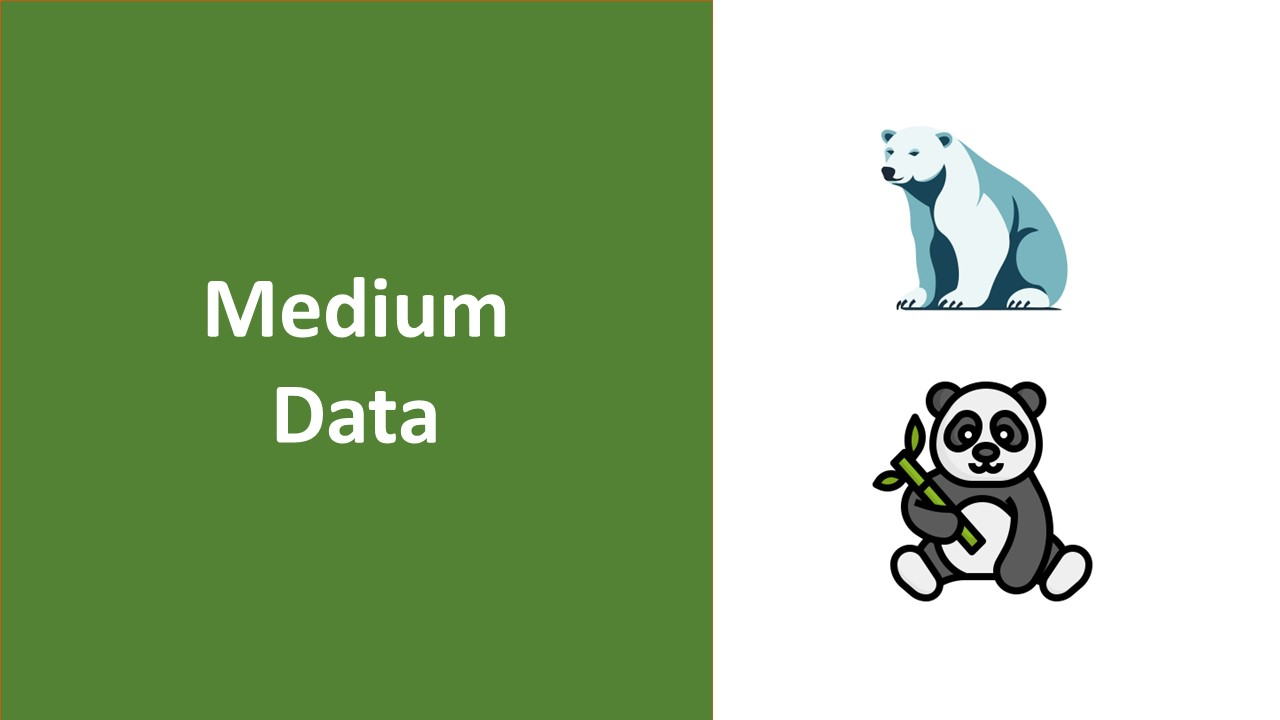
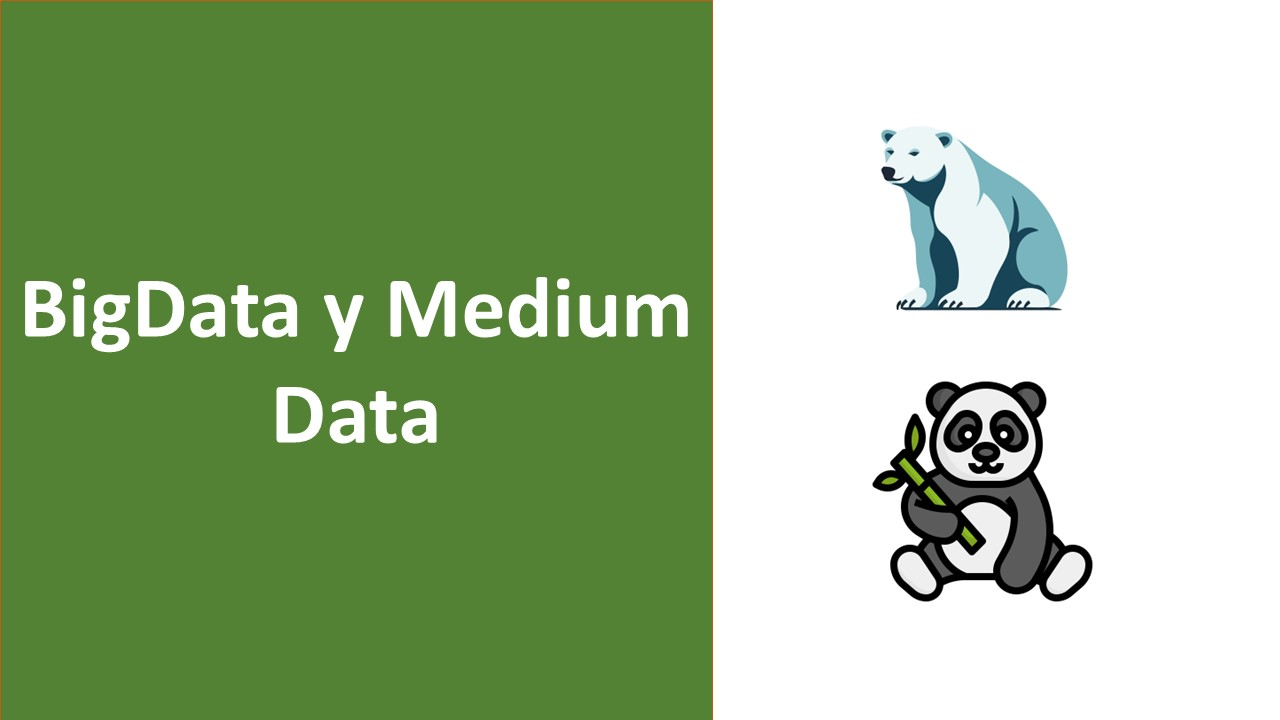
clase17

Changed region(s): [[0.0, 0.3667, 0.5625, 0.4889], [0.2812, 0.55, 0.3438, 0.6111]]

diff --git a/index.html b/index.html
@@ -217,7 +217,7 @@
                             <img class="img-fluid" src="assets/img/portfolio/thumbnails/ia.jpg" alt="..." />
                             <div class="portfolio-box-caption">
                                 <div class="project-category text-white-50">BigData</div>
-                                <div class="project-name">17. IA y Medium Data
+                                <div class="project-name">17. BigData y Medium Data
                                 </div>
                             </div>
                         </a>
@@ -233,6 +233,18 @@
                             </div>
                         </a>
                     </div>
+
+                    <div class="col-lg-4 col-sm-6">
+                        <a class="portfolio-box" href="#" onclick="redirectia();" title="BigData">
+                            <img class="img-fluid" src="assets/img/portfolio/thumbnails/ia.jpg" alt="..." />
+                            <div class="portfolio-box-caption">
+                                <div class="project-category text-white-50">BigData</div>
+                                <div class="project-name">17. BigData y Medium Data
+                                </div>
+                            </div>
+                        </a>
+                    </div>
+                    
 <!--  
                     <div class="col-lg-4 col-sm-6">
                         <a class="portfolio-box" href="#" onclick="redirectspark1();" title="BigData">
